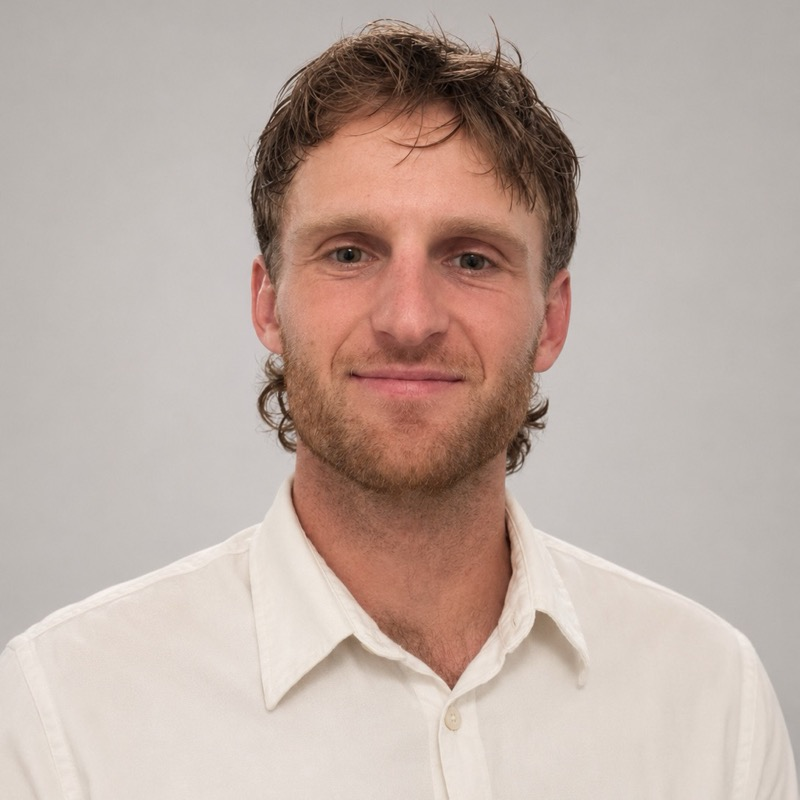
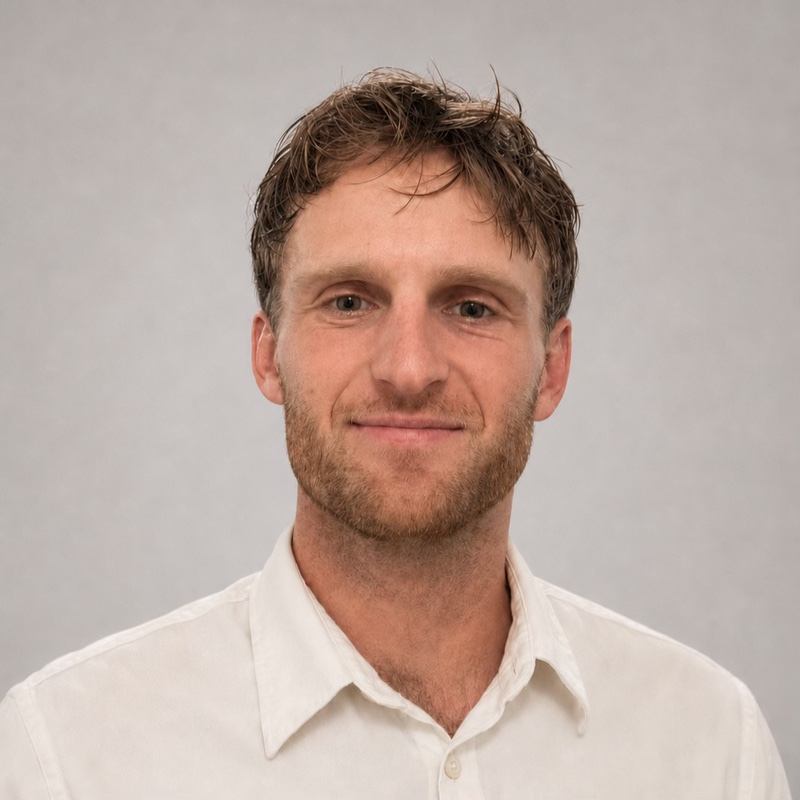
Restructure homepage: broader Aevox positioning, Projects with Parsel + bioML, writing CTA rework

Changed region(s): [[0.0, 0.0312, 1.0, 1.0]]

diff --git a/index.html b/index.html
@@ -41,19 +41,20 @@
                     <article class="card">
                         <p class="card-label">Company</p>
                         <h3 class="card-title">Aevox</h3>
-                        <p>CPET interpretation software for performance and clinical labs. Reinterprets raw breath-by-breath data into a defensible clinical report — thresholds, substrate use, glycogen modeling, economy. In pilot at Hybl Performance Center.</p>
+                        <p>CPET interpretation software: reinterprets raw breath-by-breath data into a defensible clinical report — thresholds, substrate use, glycogen modeling, economy. In pilot at Hybl Performance Center. Building toward a personalized metabolic health record that blends CPET with lab, imaging, and wearable data into one continuous longitudinal picture — for longevity and performance.</p>
                         <a href="https://aevox.health">aevox.health →</a>
                     </article>
                     <article class="card">
-                        <p class="card-label">Products</p>
+                        <p class="card-label">Projects</p>
                         <div class="card-item">
-                            <h3 class="card-item-title">Funspan</h3>
-                            <p>Coach-first longitudinal physiology dashboard. Metabolic efficiency, economy, and fatigue resistance tracked over time.</p>
-                            <a href="https://funspan.health">funspan.health →</a>
+                            <h3 class="card-item-title">Parsel</h3>
+                            <p>Longitudinal voice monitoring for Parkinson's. Short conversational check-ins establish a patient-specific speech baseline, then detect drift over time — surfaced to clinicians as trend lines, not a snapshot. Self-referenced monitoring, not a diagnostic classifier. Won Healthcare × AI NYC Hackathon 2026.</p>
+                            <a href="https://parsel.health">parsel.health →</a>
                         </div>
                         <div class="card-item">
-                            <h3 class="card-item-title">Fyool</h3>
-                            <p>Personalized endurance fuel — dual-source carbs and electrolytes formulated from your CPET data. Your numbers on the label.</p>
+                            <h3 class="card-item-title">bioML</h3>
+                            <p>Predicting metabolic substrate use from consumer wearable signals. Physiology-grounded ML.</p>
+                            <a href="/work.html#bioml">More →</a>
                         </div>
                     </article>
                     <article class="card">
@@ -67,11 +68,6 @@
                             <h3 class="card-item-title">Longevity Biomarker Heat Map</h3>
                             <p>135 biomarkers, 519 evidence cells linking labs to mortality, CVD, dementia, frailty. Citation-backed, open source.</p>
                             <a href="/biomarkers/">Open tool →</a>
-                        </div>
-                        <div class="card-item">
-                            <h3 class="card-item-title">bioML</h3>
-                            <p>Predicting metabolic substrate use from consumer wearable signals. Physiology-grounded ML.</p>
-                            <a href="/work.html#bioml">More →</a>
                         </div>
                     </article>
                 </div>
@@ -110,9 +106,10 @@
 
         <section class="writing-cta">
             <div class="container">
-                <h2>Funspan Five</h2>
-                <p>Five ideas on biology, psychology, passion, and relationships, every week. Free.</p>
-                <a href="https://jackmislinski.substack.com/" class="cta-link">Subscribe →</a>
+                <h2>Writing</h2>
+                <p>I write about physiology, psychology, and how they compound in a life. Funspan Five — my weekly newsletter — is free. Shorter thinking on X.</p>
+                <a href="https://jackmislinski.substack.com/" class="cta-link">Substack →</a>
+                <a href="https://x.com/JackMislinski" class="cta-link">X →</a>
             </div>
         </section>
     </main>

diff --git a/styles.css b/styles.css
@@ -298,6 +298,7 @@ main { flex: 1; }
     font-size: 0.95rem;
     border-bottom: 1px solid var(--text);
 }
+.cta-link + .cta-link { margin-left: 1.5rem; }
 
 /* Coaching note (quiet) */
 .quiet-note {
